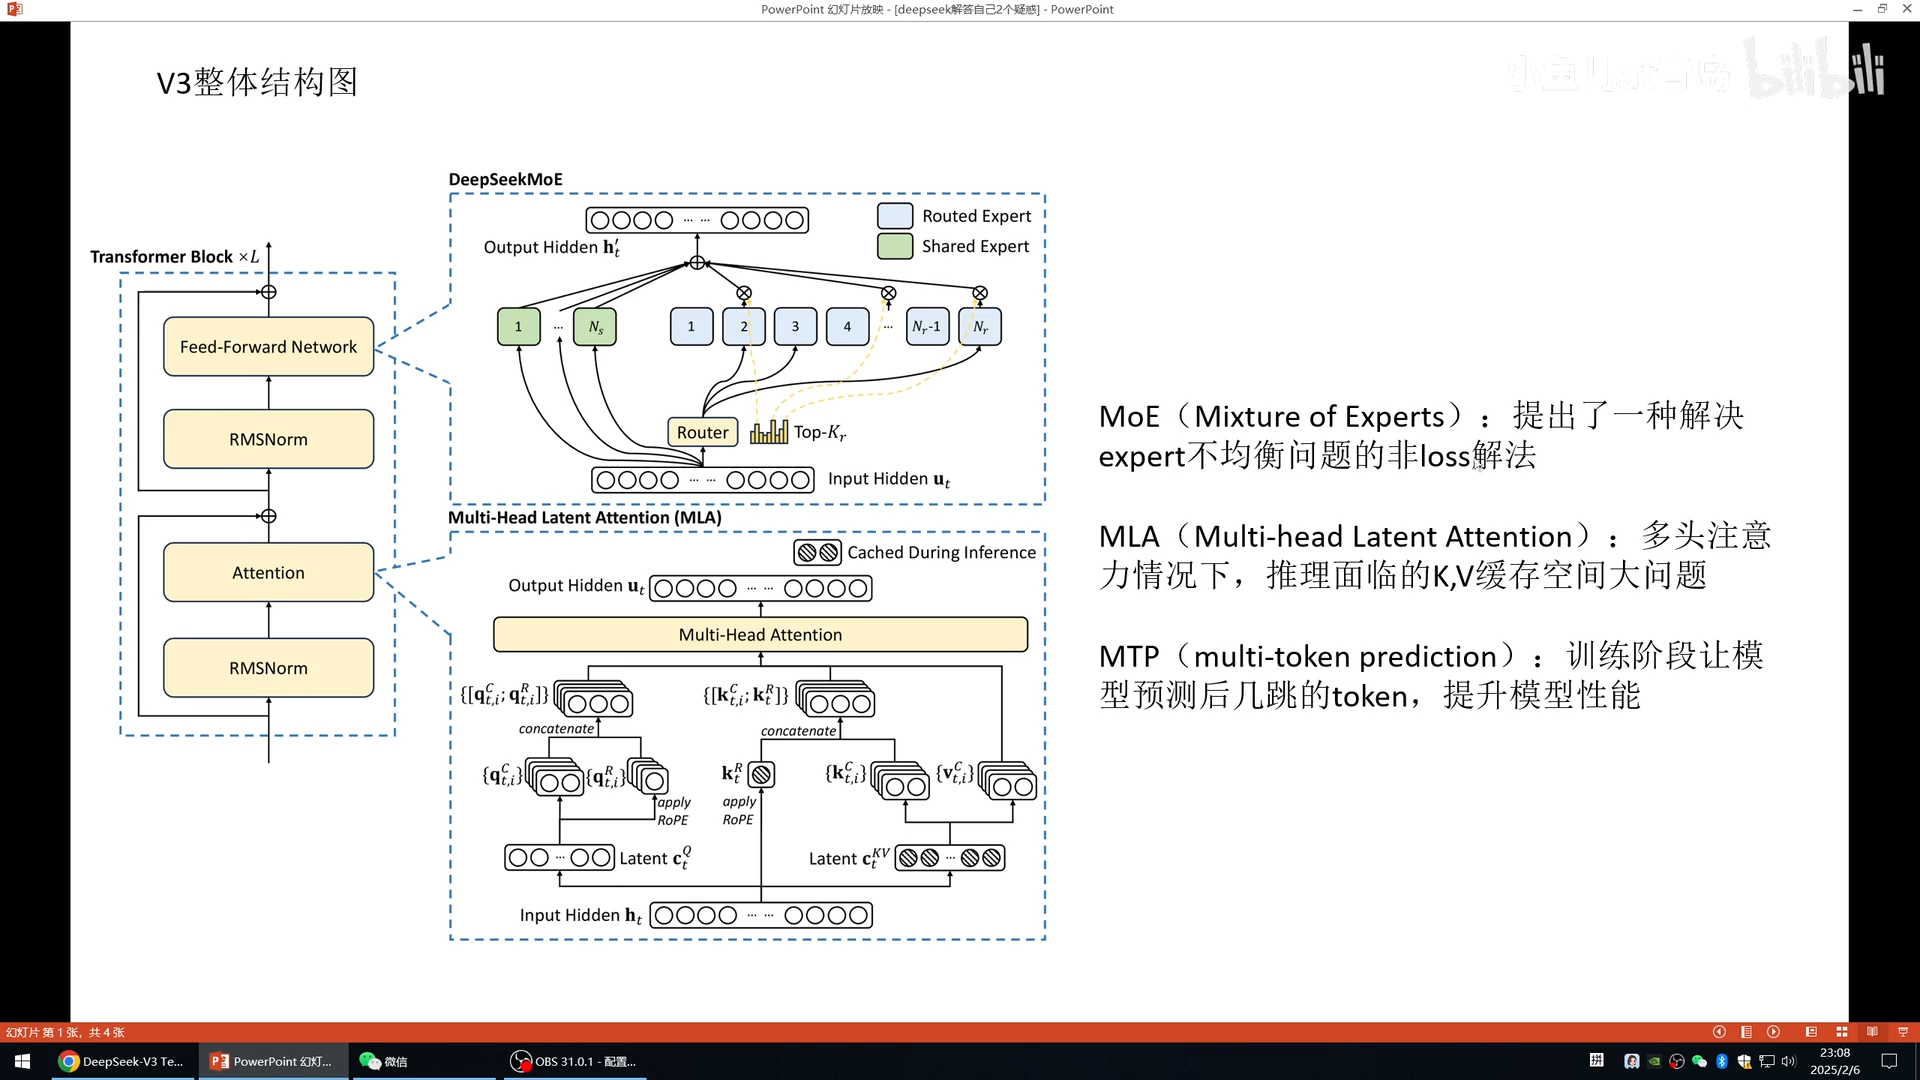
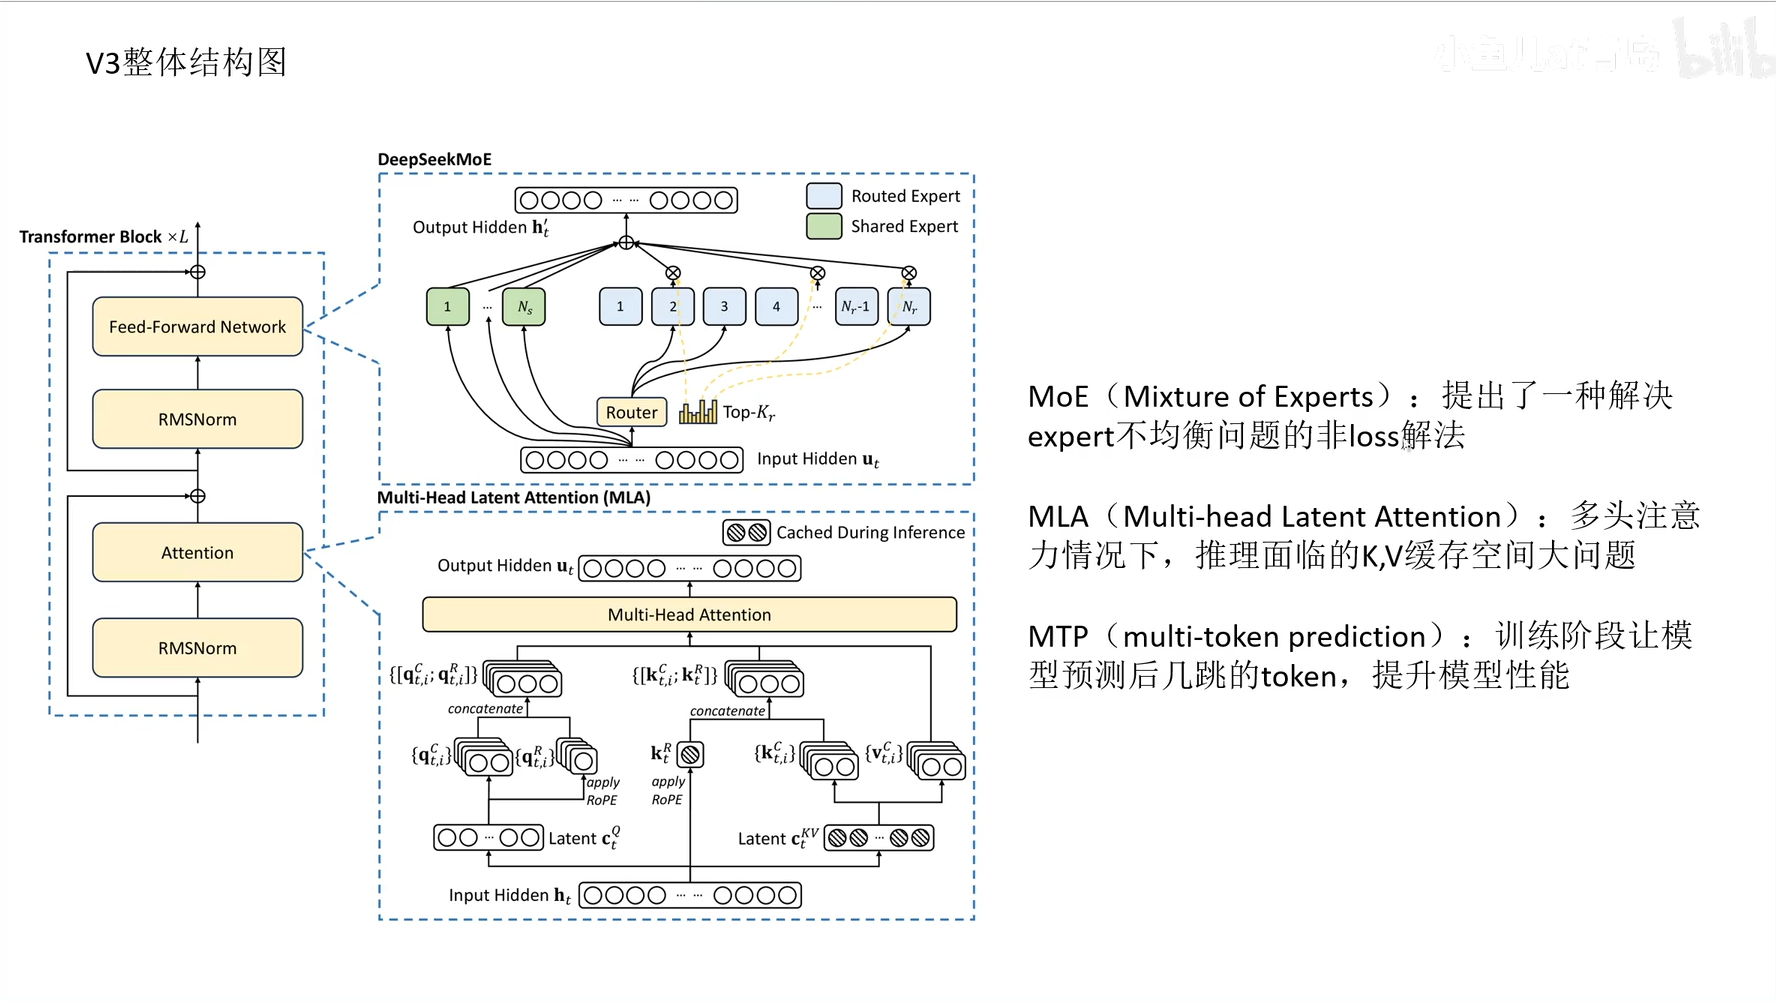
imgcrop.py

Changed region(s): [[0.0, 0.0, 1.0, 1.0], [0.3716, 0.0, 0.5884, 0.031]]

diff --git a/assets/images/250220-llm-history-transformer~a8/imgcrop.py b/assets/images/250220-llm-history-transformer~a8/imgcrop.py
@@ -1,0 +1,101 @@
+import cv2
+import numpy as np
+
+def is_mostly_white(pixel_values, threshold):
+    """ 判断是否大部分是白色（允许一定噪点） """
+    return np.count_nonzero(pixel_values <= 250) <= threshold
+
+def find_top_white_line(gray):
+    """寻找最上方的主要白色横线索引（允许2.5%噪点）"""
+    #gray = cv2.cvtColor(image, cv2.COLOR_BGR2GRAY)
+    width = gray.shape[1]
+    threshold = int(width * 0.025)  # 允许的噪点数量
+
+    for y in range(20, gray.shape[0]):  # 从上往下遍历
+        if is_mostly_white(gray[y, :], threshold):
+            continue
+        return y  # 找到非白色区域
+    return 0  # 没找到，返回0
+
+def find_bottom_white_line(gray):
+    """寻找最下方的主要白色横线索引（允许2.5%噪点）"""
+    #gray = cv2.cvtColor(image, cv2.COLOR_BGR2GRAY)
+    width = gray.shape[1]
+    threshold = int(width * 0.025)  # 允许的噪点数量
+
+    for y in range(gray.shape[0] - 1, -1, -1):  # 从下往上遍历
+        if is_mostly_white(gray[y, :], threshold):
+            continue
+        return y
+    return gray.shape[0]
+
+def find_left_white_line(gray):
+    """寻找最左侧的主要白色竖线索引（允许2.5%噪点）"""
+    #gray = cv2.cvtColor(image, cv2.COLOR_BGR2GRAY)
+    height = gray.shape[0]
+    threshold = int(height * 0.025)  # 允许的噪点数量
+
+    for x in range(gray.shape[1]):  # 从左往右遍历
+        if is_mostly_white(gray[:, x], threshold):
+            continue
+        return x
+    return 0
+
+def find_right_white_line(gray):
+    """寻找最右侧的主要白色竖线索引（允许2.5%噪点）"""
+    #gray = cv2.cvtColor(image, cv2.COLOR_BGR2GRAY)
+    height = gray.shape[0]
+    threshold = int(height * 0.025)  # 允许的噪点数量
+
+    for x in range(gray.shape[1] - 1, -1, -1):  # 从右往左遍历
+        if is_mostly_white(gray[:, x], threshold):
+            continue
+        return x
+    return gray.shape[1]
+
+def crop_white_borders(image_path, output_path):
+    """读取图片，去除上下左右的白色边界，并保存"""
+    image = cv2.imread(image_path)
+
+    top = find_top_white_line(image)
+    bottom = find_bottom_white_line(image)
+    left = find_left_white_line(image)
+    right = find_right_white_line(image)
+
+    # 进行裁剪
+    cropped_image = image[top:bottom, left:right]
+
+    # 保存裁剪后的图片
+    cv2.imwrite(output_path, cropped_image)
+    print(f"裁剪完成，结果保存在: {output_path}")
+    
+def auto_crop(image_path, output_path):
+    # 读取图片
+    image = cv2.imread(image_path)
+    gray = cv2.cvtColor(image, cv2.COLOR_BGR2GRAY)
+
+    # 进行二值化（白色背景通常高亮）
+    _, binary = cv2.threshold(gray, 240, 255, cv2.THRESH_BINARY_INV)
+    #cv2.imwrite("temp.png", binary)
+    
+    top = find_top_white_line(binary)
+    bottom = find_bottom_white_line(binary)
+
+    # 进行裁剪
+    cropped_image = image[top:bottom, :]
+    
+    binary = binary[top:bottom, :]
+    left = find_left_white_line(binary)
+    right = find_right_white_line(binary)
+    
+    cropped_image = image[top:bottom, left:right]
+    
+    # 保存裁剪后的图片
+    cv2.imwrite(output_path, cropped_image)
+    print(f"裁剪完成，结果保存在: {output_path}")
+    
+# 示例调用
+#auto_crop("20250304003933.png", "20250304003933.png")
+#auto_crop("20250304003942.png", "20250304003942.png")
+#auto_crop("20250304003905.png", "20250304003905.png")
+#auto_crop("20250304003923.png", "20250304003923.png")
